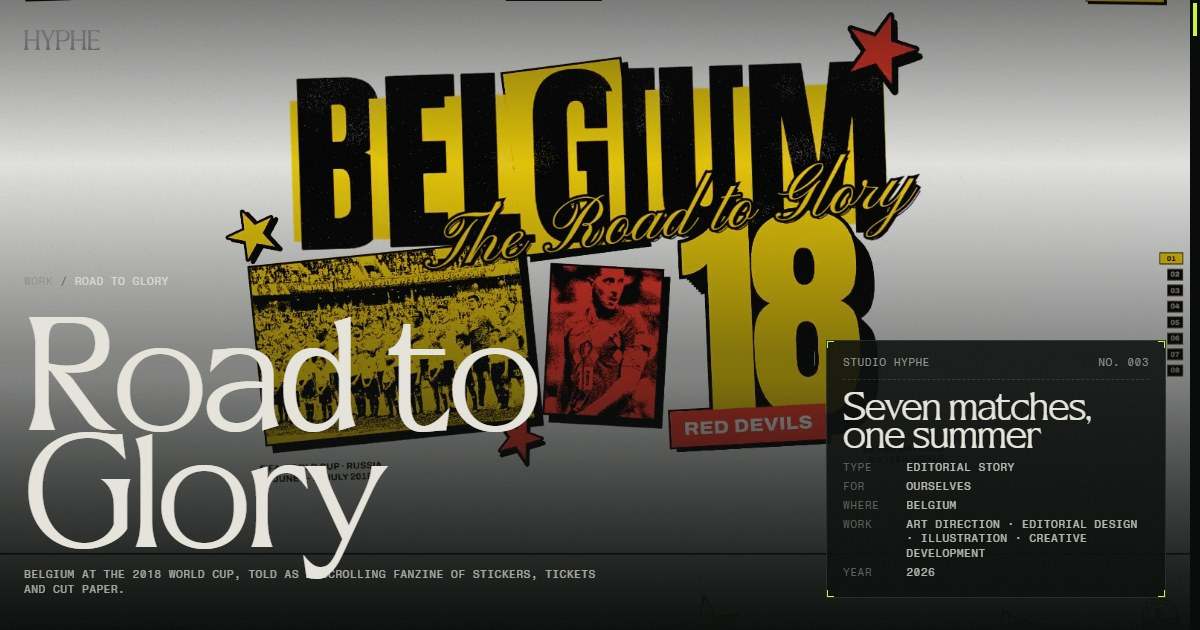
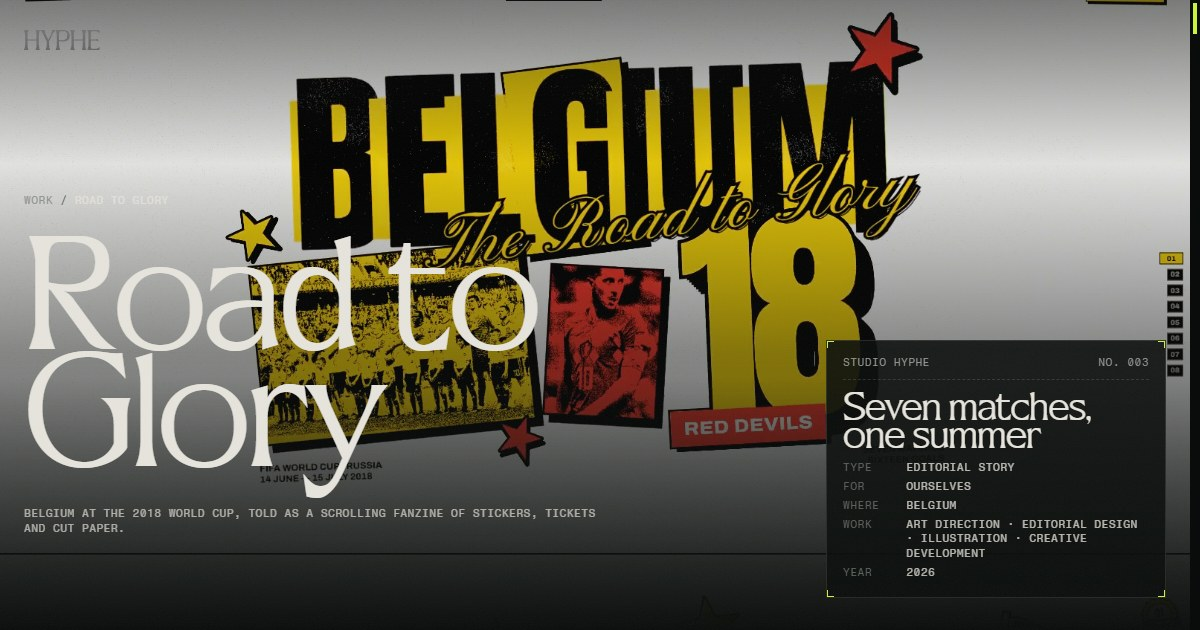
Chaque projet montre sa grande vidéo en couverture et en deuxième image, avec un bouton « See website »
Le « y » de Road to Glory n'est plus coupé sur la page des projets et ne
passe plus sur la phrase du haut de fiche. Les adresses des sites sont
celles données par Ryan.

diff --git a/src/data/projects.ts b/src/data/projects.ts
@@ -42,9 +42,12 @@ export interface Project {
 	media?: {
 		/** Image 16:9 des cartes, spécimens et partages */
 		cover: string;
-		/** Vidéo 16:9 du hero, avec son image d'attente */
+		/** Vidéo 16:9 du hero, avec son image d'attente : la grande vidéo du projet. Elle sert aussi de
+		 *  couverture sur la page des projets et revient en deuxième planche de la fiche (platesOf). */
 		heroVideo?: string;
 		heroPoster?: string;
+		/** Légende de cette vidéo quand elle revient en deuxième planche */
+		heroCaption?: string;
 		gallery: Plate[];
 	};
 }
@@ -62,9 +65,15 @@ export interface Plate {
 /** Image de couverture : le vrai média ou le visuel généré */
 export const coverOf = (p: Project) => p.media?.cover ?? `/visuals/${p.slug}.svg`;
 
-/** Les planches d'un projet, dans l'ordre de la page */
+/** Les planches d'un projet, dans l'ordre de la page. La grande vidéo du projet est toujours la
+ *  deuxième : une image d'abord, puis le site en mouvement. */
 export function platesOf(p: Project): Plate[] {
-	if (p.media) return p.media.gallery;
+	if (p.media) {
+		const { gallery, heroVideo, heroPoster, heroCaption } = p.media;
+		if (!heroVideo) return gallery;
+		const reel: Plate = { src: heroVideo, ratio: '16/9', caption: heroCaption ?? 'motion, the website, live', kind: 'video', poster: heroPoster };
+		return [...gallery.slice(0, 1), reel, ...gallery.slice(1)];
+	}
 	const v = (n: number) => `/visuals/${p.slug}/${n}.svg`;
 	return [
 		{ src: v(1), ratio: '16/9', caption: 'key visual' },
@@ -108,6 +117,7 @@ export const projects: Project[] = [
 			cover: '/work/loum/home.webp',
 			heroVideo: '/work/loum/grid.mp4',
 			heroPoster: '/work/loum/grid-poster.webp',
+			heroCaption: 'motion, dragging the grid',
 			gallery: [
 				{ src: '/work/loum/home-drag.webp', ratio: '16/9', caption: 'index, the contact sheet' },
 				{ src: '/work/loum/m-home.webp', ratio: '4/5', caption: 'mobile, index' },
@@ -116,7 +126,6 @@ export const projects: Project[] = [
 				{ src: '/work/loum/m-project.webp', ratio: '4/5', caption: 'mobile, project' },
 				{ src: '/work/loum/m-scroll.webp', ratio: '4/5', caption: 'mobile, figures' },
 				{ src: '/work/loum/m-lire.webp', ratio: '4/5', caption: 'mobile, project file' },
-				{ src: '/work/loum/grid.mp4', ratio: '16/9', caption: 'motion, dragging the grid', kind: 'video', poster: '/work/loum/grid-poster.webp' },
 				{ src: '/work/loum/project-scroll.webp', ratio: '16/9', caption: 'project page, Lire le rap' },
 				{ src: '/work/loum/m-about.webp', ratio: '4/5', caption: 'mobile, studio file' },
 				{ src: '/work/loum/m-info.webp', ratio: '4/5', caption: 'mobile, project sheet' },
@@ -150,11 +159,12 @@ export const projects: Project[] = [
 			{ value: '57', label: 'Belgian communes in the search' },
 		],
 		visual: { kind: 'bloom', seed: 11, bg: '#fcfaf2', line: '#352200', accent: '#f07a2a' },
-		url: 'farmlize.ryanfoerster.dev',
+		url: 'farmlize.studiohyphe.com',
 		media: {
 			cover: '/work/farmlize/home.webp',
 			heroVideo: '/work/farmlize/home.mp4',
 			heroPoster: '/work/farmlize/home-poster.webp',
+			heroCaption: 'motion, the home page comes alive',
 			// Sept planches fixes, composées à partir du site en ligne (pages, composants
 			// isolés, illustrations) : sources et pièces dans cases/farmlize, hors git
 			gallery: [
@@ -198,7 +208,7 @@ export const projects: Project[] = [
 			{ value: '15', label: 'sticker shapes, drawn in code' },
 		],
 		visual: { kind: 'strata', seed: 18, bg: '#f5f3ee', line: '#080808', accent: '#e52b32' },
-		url: 'belgium.ryanfoerster.dev',
+		url: 'roadtoglory.studiohyphe.com',
 		// Les photos visibles dans les images et les vidéos de la fiche (27, relevées vue par
 		// vue : cases/belgium/credits.json) : quatre photographes et un ministère
 		credits:
@@ -207,6 +217,7 @@ export const projects: Project[] = [
 			cover: '/work/belgium-2018/home.webp',
 			heroVideo: '/work/belgium-2018/home.mp4',
 			heroPoster: '/work/belgium-2018/home-poster.webp',
+			heroCaption: 'motion, the poster opens on chapter one',
 			// Sept planches fixes et trois courtes boucles, composées à partir du site en ligne
 			// (pages, composants isolés, dessins) : sources et pièces dans cases/belgium, hors git
 			gallery: [

diff --git a/CLAUDE.md b/CLAUDE.md
@@ -115,10 +115,21 @@ npx astro build             # build statique dans dist/
   planche), `os/Window.astro` (fenêtres de la galerie).
 - `src/data/projects.ts` : les projets, **tous réels** : Loum (studioloum.com,
   captures du site uniquement, jamais les projets de Loum), Farmlize
-  (farmlize.ryanfoerster.dev ; source sur le Mac dans
-  `~/Documents/Dev/farmlize`) et Road to Glory (belgium.ryanfoerster.dev,
-  « Belgium 2018 », slug `belgium-2018` ; source sur le PC dans
-  `Documents/EditoBelgique`, lecture seule). Les cinq projets fictifs du début ont été
+  (source sur le Mac dans `~/Documents/Dev/farmlize`) et Road to Glory
+  (« Belgium 2018 », slug `belgium-2018` ; source sur le PC dans
+  `Documents/EditoBelgique`, lecture seule). **Adresses** (`url`), données par
+  Ryan en novembre 2026 : `studioloum.com`, `farmlize.studiohyphe.com` et
+  `roadtoglory.studiohyphe.com`. Les deux sous-domaines du studio n'existaient
+  pas encore ce jour-là (Ryan les crée) ; les captures des fiches ont été faites
+  aux anciennes adresses, `farmlize.ryanfoerster.dev` et
+  `belgium.ryanfoerster.dev`. `url` alimente le bouton « See website » du haut
+  de fiche (`ProjectHero`), la barre de navigateur des planches et `sameAs` dans
+  le JSON-LD.
+  **La grande vidéo du projet** (`media.heroVideo`) sert trois fois : en haut de
+  la fiche, en couverture sur la page des projets (recadrée en 4:5, à la place
+  de la première planche haute : Ryan trouvait que les couvertures finissaient
+  par se ressembler), et en **deuxième planche** de chaque fiche (`platesOf`
+  l'insère, légende `media.heroCaption`) : ne pas la remettre dans `gallery`. Les cinq projets fictifs du début ont été
   retirés en novembre 2026, à la demande de Ryan : ne pas en réinventer. La
   galerie de l'accueil montre les quatre premiers ; tant qu'il y en a moins,
   la fin de galerie dit « That was all of them, for now ».
@@ -199,6 +210,9 @@ npx astro build             # build statique dans dist/
   propre opacité) ou une toile opaque.
 - `scramble()` garde le texte final en cache (`data-scramble-text`) : le
   mettre à jour avant de rappeler `scramble` avec un nouveau texte.
+- Parceh a des jambages longs (y, g, p) et une ligne à 75 % du corps : un nom
+  comme « Road to Glory » déborde sous sa ligne. Sous un masque (`truncate`), il
+  lui faut `pb-[0.24em]` ; avant un texte, `pb-[0.13em]` sur le titre.
 - Les styles scopés Astro l'emportent sur les utilitaires Tailwind
   (`md:hidden` sur un élément qui a un `display` dans `<style>` ne marche pas).
 - Le hero attend `html.is-unveiling` (fin des tuiles du loader) pour germer.
